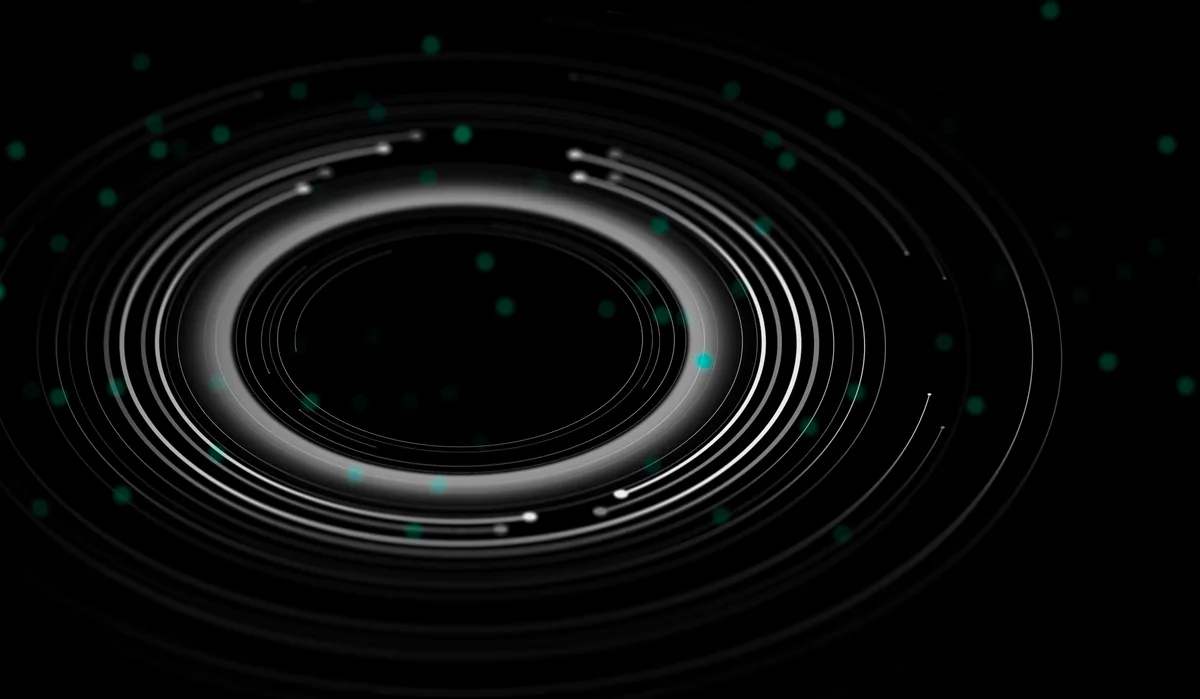
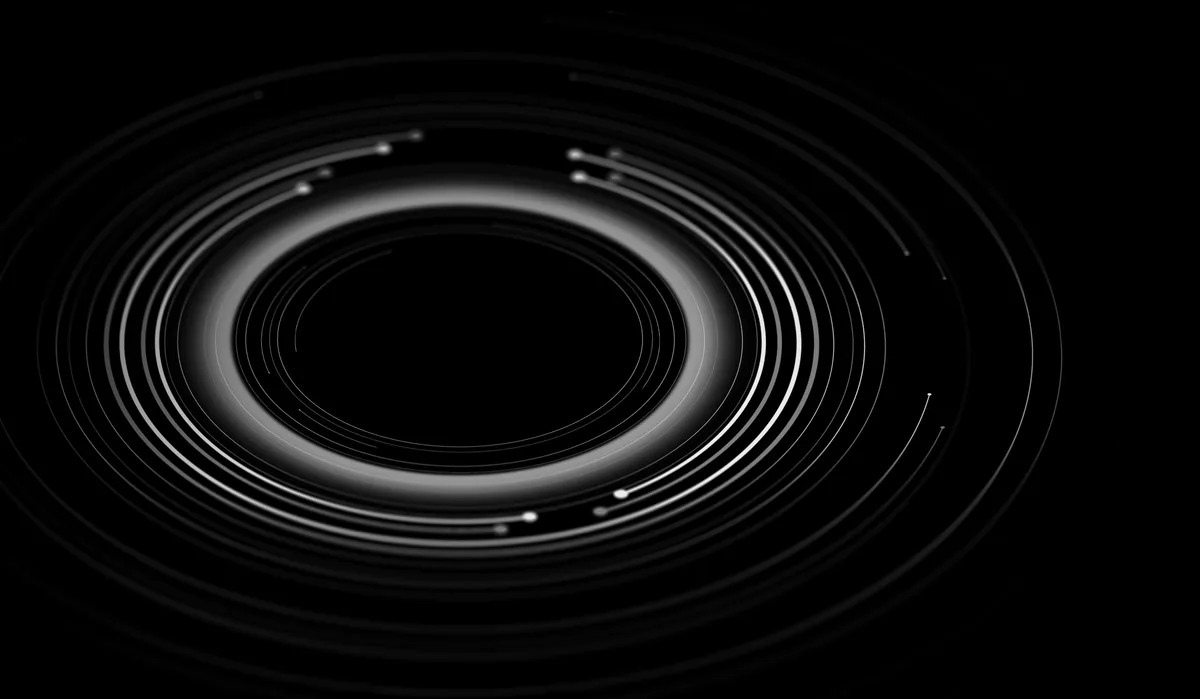
content: CTA 제목을 전부 흰색으로 되돌리고 장식 이미지 재변환
CTA: 'Refinery' 강조 span을 뺀다. .uc-cta-em 규칙은 남겨둔다(다른 과제에서 쓸 수 있다).

장식: ti219a43116.png가 다시 저장되어(5.8→5.9MB) 같은 설정으로 다시 뽑았다.
1200폭 q82, 32KB → 30KB. 청록색 점이 빠지고 흑백 링만 남았다.

diff --git a/src/data/usecases/index.ts b/src/data/usecases/index.ts
@@ -4,7 +4,7 @@ import type { UseCase } from './types';
 export const useCases: UseCase[] = [
   {
     slug: 'predictive-maintenance',
-    ctaTitle: '예지보전, 우리 현장에 어떻게 적용될지<br><span class="uc-cta-em">Refinery</span>와 함께 확인해보세요.',
+    ctaTitle: '예지보전, 우리 현장에 어떻게 적용될지<br>Refinery와 함께 확인해보세요.',
     name: '예지보전',
     // 히어로를 제목 중심으로 정리 — 위치 표시·eyebrow를 빼고 좌측을 헤더 로고 선에 맞춘다.
     showBreadcrumb: false,
